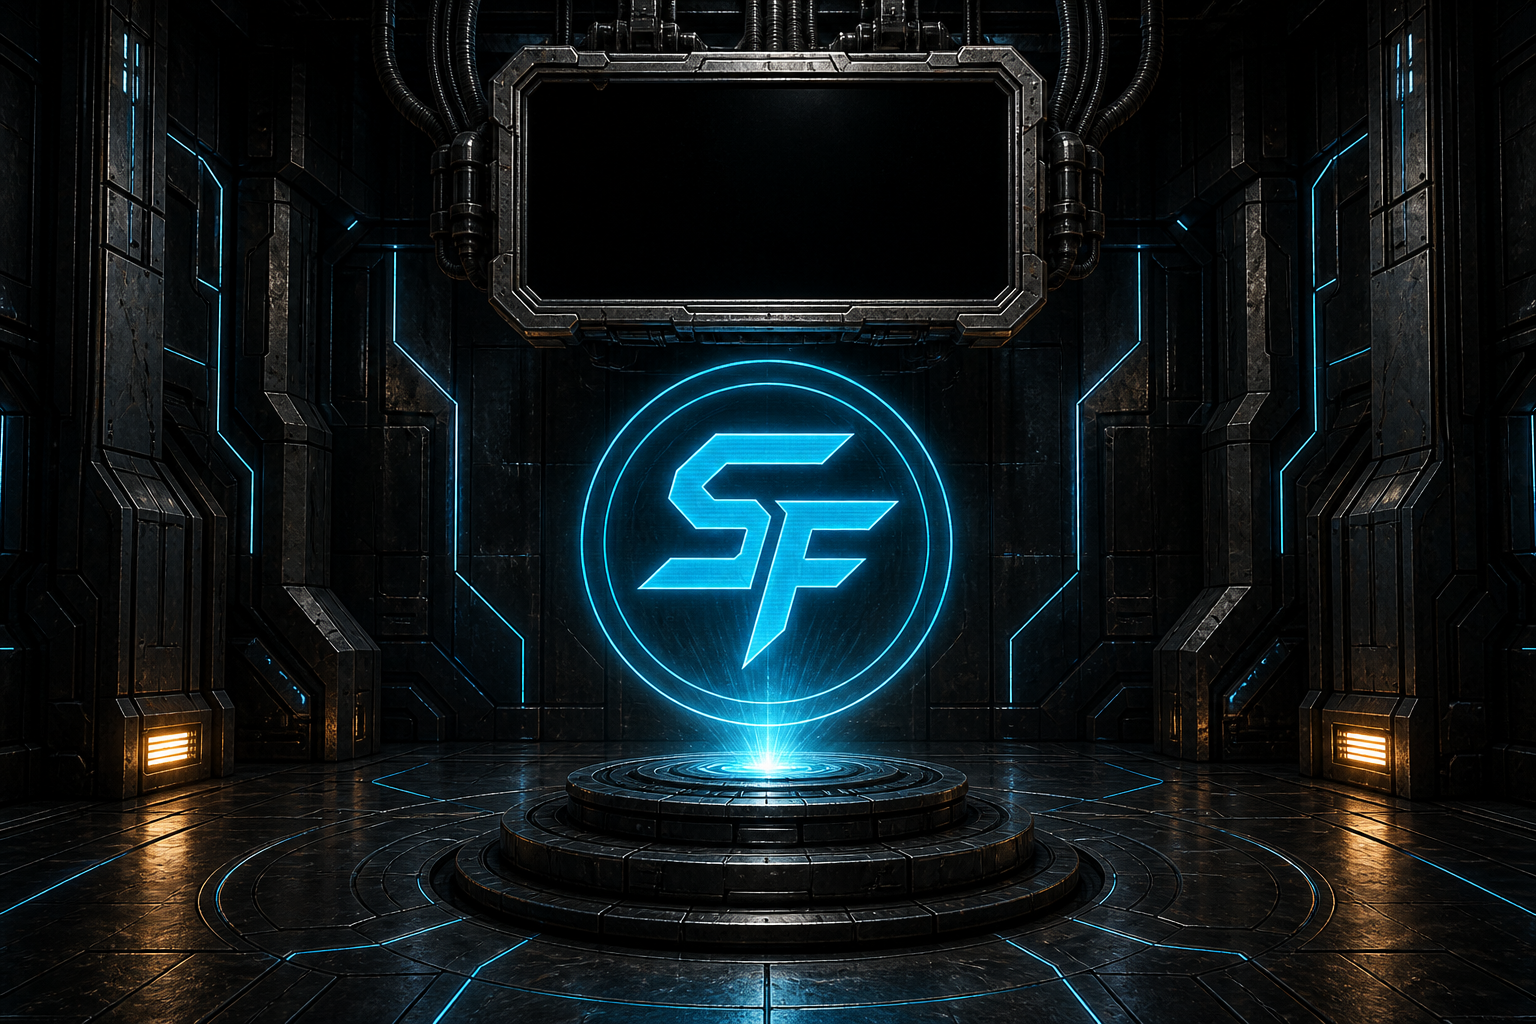
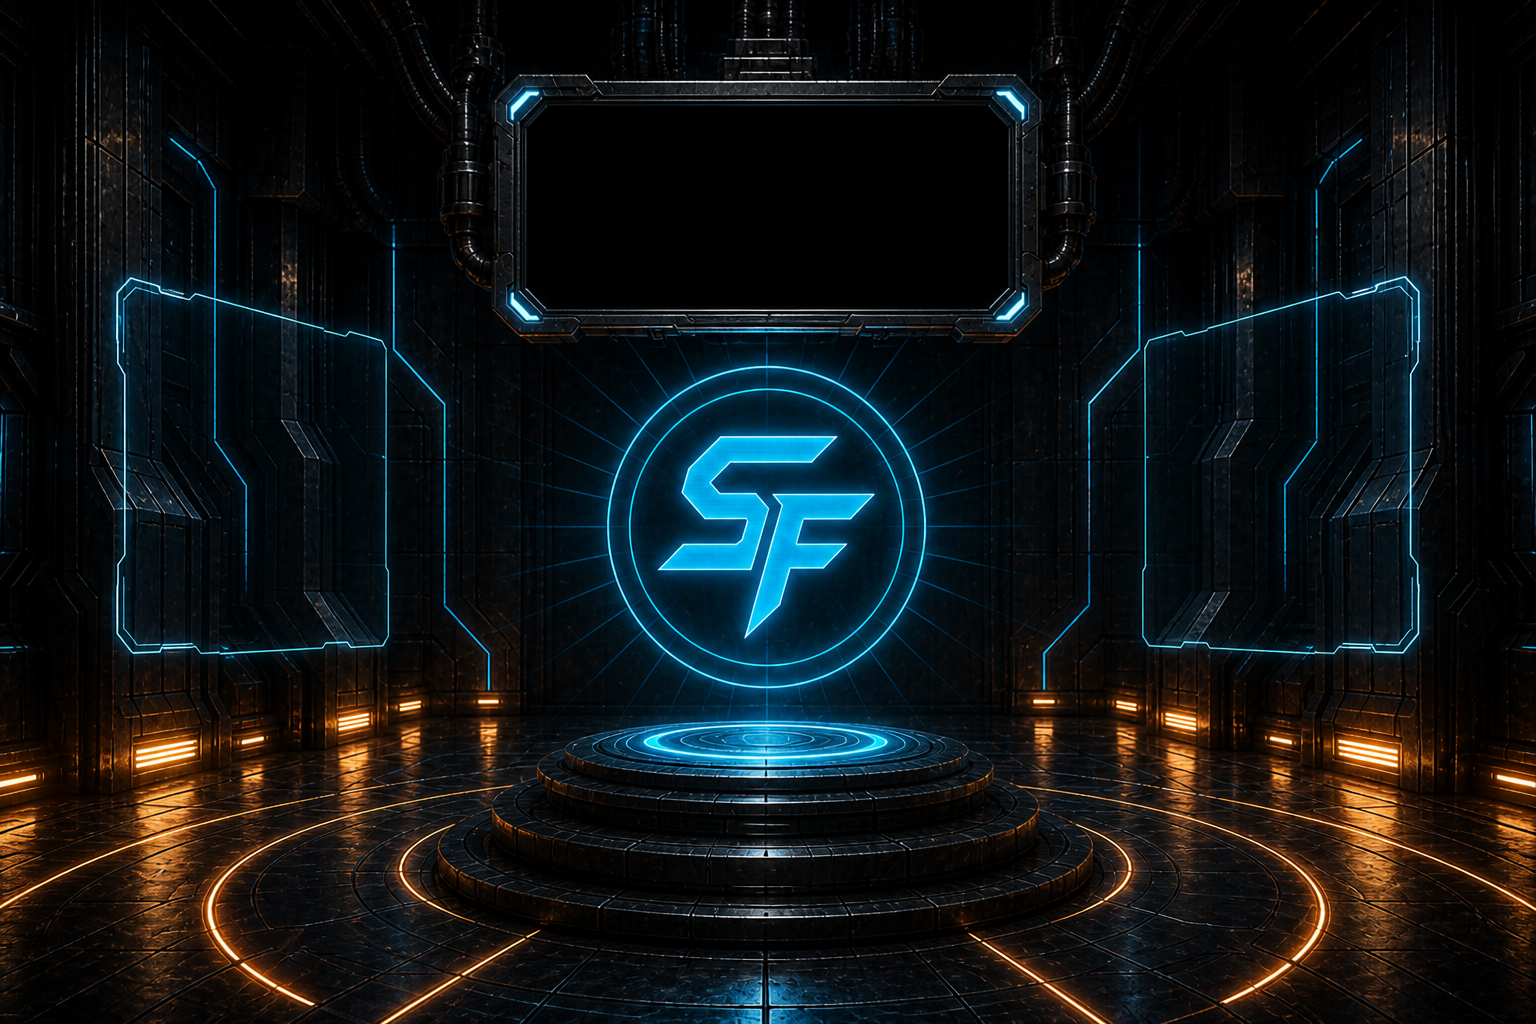
feat(forge-lab): lock orange-hero plate and ±3° Option A yaw
Use one brighter-orange locked still for idle and docked. Empty cyan
panes stay guides only. HTML HoloPanels own glass + content at ±3°.

diff --git a/tests/unit/forge-lab-hotspots.test.ts b/tests/unit/forge-lab-hotspots.test.ts
@@ -52,8 +52,8 @@ describe('Forge Lab hotspot map', () => {
     expect(RIGHT_HOLO_SLOT.left).toBeGreaterThan(FORGE_CORE.cx);
   });
 
-  it('freezes the Option A dock map including ±4° yaw', () => {
-    expect(HOLO_YAW_DEG).toBe(4);
+  it('freezes the Option A dock map including ±3° yaw', () => {
+    expect(HOLO_YAW_DEG).toBe(3);
     expect(HOLO_PERSPECTIVE_PX).toBe(1200);
     expect(TOP_MONITOR_GLASS).toMatchObject({
       left: 27.4,
@@ -75,14 +75,14 @@ describe('Forge Lab hotspot map', () => {
       top: 30.5,
       width: 20.8,
       height: 42,
-      yaw: -4,
+      yaw: -3,
     });
     expect(RIGHT_HOLO_SLOT).toMatchObject({
       left: 72,
       top: 30.5,
       width: 20.8,
       height: 42,
-      yaw: 4,
+      yaw: 3,
     });
   });
 
@@ -90,8 +90,8 @@ describe('Forge Lab hotspot map', () => {
     expect(slotOrigin(LEFT_HOLO_SLOT)).toBe('right center');
     expect(slotOrigin(RIGHT_HOLO_SLOT)).toBe('left center');
     expect(slotOrigin(TOP_MONITOR_GLASS)).toBe('center center');
-    expect(slotTransform(LEFT_HOLO_SLOT)).toBe('perspective(1200px) rotateY(-4deg)');
-    expect(slotTransform(RIGHT_HOLO_SLOT)).toBe('perspective(1200px) rotateY(4deg)');
+    expect(slotTransform(LEFT_HOLO_SLOT)).toBe('perspective(1200px) rotateY(-3deg)');
+    expect(slotTransform(RIGHT_HOLO_SLOT)).toBe('perspective(1200px) rotateY(3deg)');
     expect(slotTransform(TOP_MONITOR_GLASS)).toBe('perspective(1200px) rotateY(0deg)');
 
     const left = dockSlotStyle(LEFT_HOLO_SLOT);
@@ -101,10 +101,10 @@ describe('Forge Lab hotspot map', () => {
       top: '30.5%',
       width: '20.8%',
       height: '42%',
-      transform: 'perspective(1200px) rotateY(-4deg)',
+      transform: 'perspective(1200px) rotateY(-3deg)',
       transformOrigin: 'right center',
     });
-    expect(right.transform).toBe('perspective(1200px) rotateY(4deg)');
+    expect(right.transform).toBe('perspective(1200px) rotateY(3deg)');
     expect(right.transformOrigin).toBe('left center');
   });
 });

diff --git a/src/lib/forge-lab/hotspotMap.ts b/src/lib/forge-lab/hotspotMap.ts
@@ -10,8 +10,9 @@
 // map. To retune: open /dev/forge-lab?calibrate=1 and nudge these
 // constants. Do not click the image.
 //
-// Option A: world plates have NO side hologram frames. HTML HoloPanel
-// owns edge + frost + UI as one `perspective + rotateY` element.
+// Hotspot video shell + Option A: still plates (loopVideo hook later).
+// Plate may show faint empty cyan guide panes. HTML HoloPanel owns
+// edge + frost + UI as one `perspective + rotateY` element.
 
 export const PLATE_WIDTH_PX = 1536;
 export const PLATE_HEIGHT_PX = 1024;
@@ -35,9 +36,9 @@ export const WORLD_MEDIA = {
 
 /**
  * Option A dock yaw (degrees). HTML owns the entire hologram.
- * Left slot is −HOLO_YAW_DEG, right is +HOLO_YAW_DEG. Plate has no side frames.
+ * Left slot is −HOLO_YAW_DEG, right is +HOLO_YAW_DEG.
  */
-export const HOLO_YAW_DEG = 4;
+export const HOLO_YAW_DEG = 3;
 /** Perspective distance for `rotateY` on docked hologram slots. */
 export const HOLO_PERSPECTIVE_PX = 1200;
 

diff --git a/tests/unit/forge-lab-hub.test.tsx b/tests/unit/forge-lab-hub.test.tsx
@@ -52,11 +52,11 @@ describe('ForgeLabHub a11y + reduced motion', () => {
     const right = document.querySelector('.fl-panel[data-side="right"]') as HTMLElement;
     expect(left.tagName).toBe('SECTION');
     const monitor = document.querySelector('.fl-monitor') as HTMLElement;
-    expect(left.getAttribute('data-yaw')).toBe('-4');
-    expect(right.getAttribute('data-yaw')).toBe('4');
+    expect(left.getAttribute('data-yaw')).toBe('-3');
+    expect(right.getAttribute('data-yaw')).toBe('3');
     expect(monitor.getAttribute('data-yaw')).toBe('0');
-    expect(left.style.transform).toContain('rotateY(-4deg)');
-    expect(right.style.transform).toContain('rotateY(4deg)');
+    expect(left.style.transform).toContain('rotateY(-3deg)');
+    expect(right.style.transform).toContain('rotateY(3deg)');
     expect(left.style.transformOrigin).toBe('right center');
     expect(right.style.transformOrigin).toBe('left center');
   });

diff --git a/docs/forge-lab-hub.md b/docs/forge-lab-hub.md
@@ -4,7 +4,7 @@
 **Flag:** `NEXT_PUBLIC_FORGE_LAB_HUB` (`FEATURE_FLAGS.FORGE_LAB_HUB`)  
 **Routes:** `/forge-lab` (authenticated, flag-on) · `/dev/forge-lab` (public preview)
 
-Indoor **forge laboratory** mock. A looping-ready world plate plus invisible DOM/SVG hotspot twins open real HTML hologram panels. The center **SF** monogram is the portal/emitter.
+Indoor **forge laboratory** mock. **Hotspot video shell + Option A.** A looping-ready world plate plus invisible DOM/SVG hotspot twins open real HTML hologram panels. The center **SF** monogram is the portal/emitter.
 
 This is **not** Mission Control (PR #163) and **not** the panoramic cockpit.
 
@@ -16,9 +16,9 @@ Video/still pixels are never the click target.
 
 | Layer | What |
 |---|---|
-| **z0** | World plate. Still images now (`public/forge-lab/00-locked-hub-dark-sf.png` + idle/charge/emit/docked keyframes). `WORLD_MEDIA.loopVideo` is the hook for a later encode. |
+| **z0** | World plate. Stills now (`public/forge-lab/00-locked-hub-dark-sf.png` + idle/charge/emit/docked). `WORLD_MEDIA.loopVideo` stays `null` until a later encode. |
 | **z1** | Invisible DOM buttons aligned to the plate (`HotspotMap`). SF core, pedestal, top-monitor glass, left/right docks. |
-| **z2** | Real React UI: `ForgeCore` (live SF), `TopMonitor` HUD fitted 1:1 in the bezel glass (yaw 0), `HoloPanel`s that emit from SF and float in empty air. |
+| **z2** | Real React UI: `ForgeCore` (live SF), `TopMonitor` HUD fitted 1:1 in the bezel glass (yaw 0), `HoloPanel`s that emit from SF. |
 
 `?calibrate=1` on `/dev/forge-lab` outlines the hit map. Outlines use the **same** `%` box + yaw as the HTML overlays (`dockSlotStyle`) — HTML bounds after yaw.
 
@@ -26,29 +26,29 @@ Video/still pixels are never the click target.
 
 ## Option A (owner-locked)
 
-World plates have **no side hologram frames**. Left/right of the SF core is empty air (dark lab walls only). HTML `HoloPanel` owns the **entire** hologram — cyan edge, frosted fill, glow, and UI — as **one** transformed element.
+Idle and docked share one plate. Empty cyan panes on the plate are **guides only** (no fake UI). HTML `HoloPanel` owns the **entire** hologram — cyan edge, frosted fill, glow, and content — as **one** `perspective(1200px) rotateY(±3deg)` element.
 
-Do **not** paint yawed trapezoids into the art and overlay a second HTML box. That split (hybrid dock) is what caused the misalignment: plate frames yawed, HTML sat flat.
+Do **not** paint thick yawed slabs into the art and overlay a second untransformed HTML box (hybrid dock). Keep plate panes faint/empty so they do not fight the HTML chrome.
 
-Docked plate: `public/forge-lab/04-docked.png` (Option A empty-air). Emit plate is also frameless so the charge→emit crossfade does not flash painted frames.
+Locked regen (brighter orange floor/cowling lights, metal darkness unchanged) is used for `00-locked-hub-dark-sf.png`, `01-idle.png`, and `04-docked.png`.
 
 ### Frozen map — 1536×1024 plate
 
-Locked plates are **1536×1024 (3:2)**. The stage is a letterboxed box with `aspect-ratio: 1536 / 1024` and `object-fit: contain`. Every hotspot is a **percent of that stage**, not of the viewport.
-
-`HOLO_YAW_DEG = 4`. Docked HoloPanels use `perspective(1200px) rotateY(yawdeg)` on the **same** element that draws the hologram chrome. Transform-origin faces SF: left panel `right center`, right panel `left center`.
+`HOLO_YAW_DEG = 3` (degrees; not percent). Transform-origin faces SF: left `right center`, right `left center`.
 
 | Region | Box (% of plate) | Yaw |
 |---|---|---|
-| `TOP_MONITOR_GLASS` | `27.4, 2.6, 45.2 × 17.8` | `0` — HUD stays flat in the bezel glass |
+| `TOP_MONITOR_GLASS` | `27.4, 2.6, 45.2 × 17.8` | `0` |
 | `FORGE_CORE` | circle `cx 50, cy 49.2, r 9.4` | — |
 | `PEDESTAL` | `36.5, 70.5, 27 × 18.5` | `0` |
-| `LEFT_HOLO_SLOT` | `7.2, 30.5, 20.8 × 42` | `−4` |
-| `RIGHT_HOLO_SLOT` | `72, 30.5, 20.8 × 42` | `+4` |
+| `LEFT_HOLO_SLOT` | `7.2, 30.5, 20.8 × 42` | `−3` |
+| `RIGHT_HOLO_SLOT` | `72, 30.5, 20.8 × 42` | `+3` |
+
+Nudge those numbers only after `?calibrate=1` proves the empty panes miss the HTML. Report any % change.
 
 ### Blend tokens (HoloPanel CSS — HOLO_BLEND)
 
-HTML draws these; the plate does not.
+HTML draws these on the same transformed element as the content.
 
 | Token | Value |
 |---|---|
@@ -58,31 +58,25 @@ HTML draws these; the plate does not.
 | blur | `12px` |
 | glow | `0 0 24px rgba(77, 233, 255, 0.25)` |
 
-CSS variables on `.fl-hub`: `--fl-holo-edge`, `--fl-holo-fill`, `--fl-holo-fill-active`, `--fl-holo-blur`, `--fl-holo-glow`.
-
-The hub root is `data-surface="dark"` and HoloPanels are `<section>`s so the a11y `.light aside` remap cannot paint them as white cards.
-
 ---
 
 ## SF portal
 
 State machine: `idle → charge → emit → docked` (`src/lib/forge-lab/portalMachine.ts`).
 
-- Click SF / pedestal (or Enter on the hotspot) → charge (420ms) → emit (560ms) → dock panels left/right and light the top bay.
-- `prefers-reduced-motion` or Settings reduce-motion → skip straight to **docked**.
+- Click SF / pedestal → charge (420ms) → emit (560ms) → dock panels left/right and light the top bay.
+- `prefers-reduced-motion` → skip straight to **docked**.
 - Escape or Retract folds panels back into SF.
-- Docked panels: lab **listbox** (left), game-bay stub + avatar stub (right). Games are not rewritten.
 
 ---
 
 ## What we avoided
 
-- Panoramic ~38–50M-triangle cockpit hull, OrbitControls, persistent `CockpitCanvas`.
-- Clickable video/image pixels without DOM twins.
-- Mission Control’s space-station console / ellipse of lab pods / optional WebGL backdrop.
-- Hybrid dock (painted yawed frames + flat HTML overlays).
-- Rewriting 42 games or the marketing site.
-- A SaaS header in the top glass — the bezel gets lab name, XP/streak gauges, and a Sparky one-liner.
+- Panoramic cockpit hull / OrbitControls / persistent `CockpitCanvas`
+- Mission Control space-station console
+- Clickable video pixels without DOM twins
+- Hybrid dock (thick painted frames + flat HTML)
+- Rewriting 42 games
 
 ---
 
@@ -92,14 +86,12 @@ State machine: `idle → charge → emit → docked` (`src/lib/forge-lab/portalM
 NEXT_PUBLIC_FORGE_LAB_HUB=true
 ```
 
-- Flag **defaults to `false`** so `/home` stays the working dashboard.
-- `/dev/forge-lab` is a public preview (sample child “Nova”) and does **not** require the flag.
+Flag **defaults to `false`**. `/dev/forge-lab` does not require the flag.
 
 ---
 
 ## Known limitations
 
-- Idle/charge plates are generated stand-ins. Docked/emit are Option A empty-air (no side frames).
-- Still plates + CSS crossfade only — no Grok Video encode.
-- Game bay and avatar kit are labeled stubs (`data-slot="game-shell"` / `data-slot="avatar-creator"`).
-- Authenticated `/forge-lab` needs the flag on at build time (`NEXT_PUBLIC_*`).
+- Stills + CSS crossfade only — `WORLD_MEDIA.loopVideo` is the hook for a later encode.
+- Game bay and avatar kit are stubs.
+- Authenticated `/forge-lab` needs the flag on at build time.

diff --git a/public/forge-lab/README.md b/public/forge-lab/README.md
@@ -1,15 +1,15 @@
 # Forge Lab world plates
 
-Locked indoor forge-lab stills for the hotspot hub (`/dev/forge-lab`).
+Hotspot video shell + Option A. Stills until `WORLD_MEDIA.loopVideo` is wired.
 
-**Option A:** plates must not paint side hologram frames. HTML `HoloPanel` owns the cyan edge, frost, and UI at ±4° yaw.
+Empty cyan panes are **guides only**. HTML `HoloPanel` owns edge + frost + UI at ±3° yaw.
 
 | File | Role |
 |---|---|
-| `00-locked-hub-dark-sf.png` | Default idle world plate (1536×1024), empty air L/R |
+| `00-locked-hub-dark-sf.png` | Locked regen — brighter orange floor/cowling, dark metal. Also copied to idle + docked. |
 | `00-sf-monogram-closeup.png` | SF core reference (1024×1024) |
-| `01-idle.png` … `02-charge.png` | Portal keyframes (empty air L/R) |
-| `03-emit.png` | Emit keyframe — frameless (no painted L/R holograms) |
-| `04-docked.png` | Option A empty-air dock plate (1536×1024). SF core + hanging bezel only. |
+| `01-idle.png` | Same locked plate (empty guides stay) |
+| `02-charge.png` / `03-emit.png` | Same locked still so the portal crossfade does not swap rooms |
+| `04-docked.png` | Same locked plate — HTML holograms appear on dock |
 
 To add a looping encode later, drop a `.webm` here and set `WORLD_MEDIA.loopVideo` in `src/lib/forge-lab/hotspotMap.ts`.
